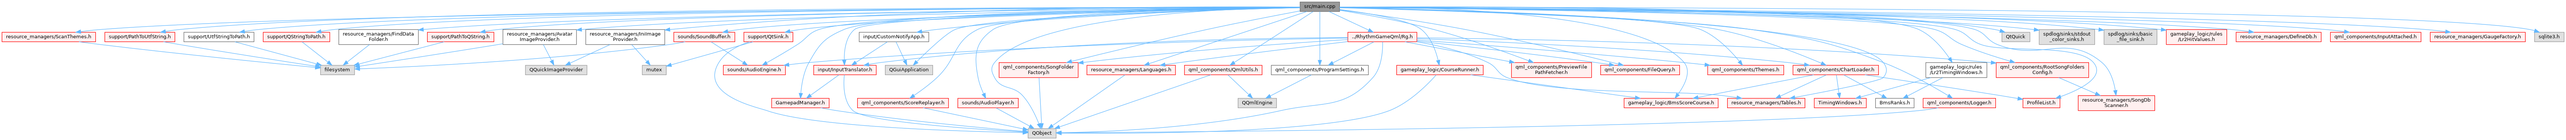
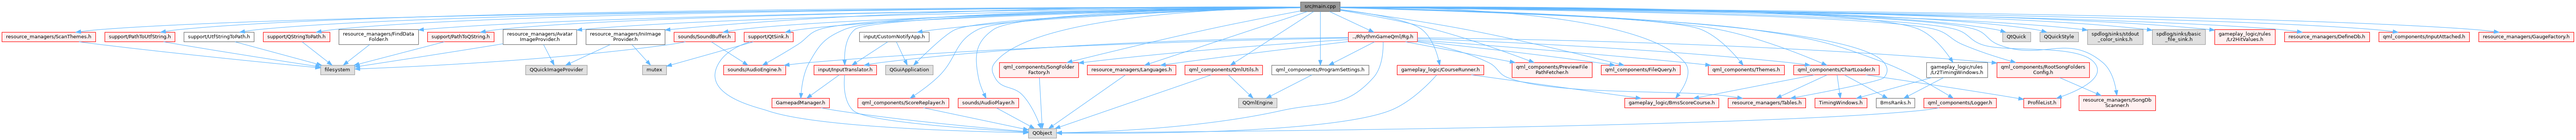
deploy: 96842105ca06dc9612243783aa36a79396fbe192

diff --git a/main_8cpp.html b/main_8cpp.html
@@ -86,6 +86,7 @@ $(function() {
 <code>#include &lt;QGuiApplication&gt;</code><br />
 <code>#include &lt;QObject&gt;</code><br />
 <code>#include &lt;QtQuick&gt;</code><br />
+<code>#include &lt;QQuickStyle&gt;</code><br />
 <code>#include &lt;spdlog/sinks/stdout_color_sinks.h&gt;</code><br />
 <code>#include &lt;spdlog/sinks/basic_file_sink.h&gt;</code><br />
 <code>#include &quot;<a class="el" href="Logger_8h_source.html">qml_components/Logger.h</a>&quot;</code><br />
@@ -120,7 +121,6 @@ $(function() {
 <code>#include &quot;<a class="el" href="QtSink_8h_source.html">support/QtSink.h</a>&quot;</code><br />
 <code>#include &quot;<a class="el" href="AvatarImageProvider_8h_source.html">resource_managers/AvatarImageProvider.h</a>&quot;</code><br />
 <code>#include &quot;<a class="el" href="QStringToPath_8h_source.html">support/QStringToPath.h</a>&quot;</code><br />
-<code>#include &lt;sqlite3.h&gt;</code><br />
 </div><div class="textblock"><div class="dynheader">
 Include dependency graph for main.cpp:</div>
 <div class="dyncontent">
@@ -149,18 +149,20 @@ Include dependency graph for main.cpp:</div>
 <area shape="poly" title=" " alt="" coords="3464,22,3278,28,3158,36,3031,49,2907,67,2797,93,2749,108,2708,126,2676,146,2652,168,2647,177,2645,186,2652,205,2667,223,2685,230,2706,237,2727,253,2753,291,2771,329,2766,331,2749,294,2723,257,2703,242,2683,235,2664,227,2648,208,2640,186,2642,176,2648,165,2672,142,2706,121,2747,103,2795,87,2906,62,3030,43,3157,31,3278,23,3464,17"/>
 <area shape="rect" title=" " alt="" coords="5334,86,5409,111"/>
 <area shape="poly" title=" " alt="" coords="3569,16,3902,16,4409,22,4678,29,4932,40,5151,55,5316,76,5330,79,5329,84,5315,81,5151,61,4932,46,4678,35,4409,28,3902,22,3569,22"/>
-<area shape="rect" title=" " alt="" coords="5433,79,5581,119"/>
-<area shape="poly" title=" " alt="" coords="3570,17,3915,21,4445,30,5000,48,5237,61,5420,76,5420,82,5237,66,5000,53,4445,35,3914,26,3570,22"/>
-<area shape="rect" title=" " alt="" coords="5606,79,5747,119"/>
-<area shape="poly" title=" " alt="" coords="3570,17,3943,19,4523,27,5132,45,5392,59,5592,76,5591,81,5391,64,5132,50,4522,33,3943,24,3570,22"/>
+<area shape="rect" title=" " alt="" coords="5433,86,5536,111"/>
+<area shape="poly" title=" " alt="" coords="3570,17,3920,17,4457,24,4743,31,5013,42,5246,57,5421,76,5439,80,5437,85,5420,81,5245,62,5013,47,4743,36,4457,29,3920,23,3570,22"/>
+<area shape="rect" title=" " alt="" coords="5560,79,5708,119"/>
+<area shape="poly" title=" " alt="" coords="3570,17,3935,20,4502,28,5097,46,5351,59,5546,76,5546,81,5350,65,5097,51,4502,34,3935,25,3569,22"/>
+<area shape="rect" title=" " alt="" coords="5733,79,5874,119"/>
+<area shape="poly" title=" " alt="" coords="3570,17,3963,18,4580,26,5229,44,5506,58,5719,76,5719,81,5506,63,5229,49,4580,31,3963,24,3570,22"/>
 <area shape="rect" href="Logger_8h.html" title=" " alt="" coords="5124,262,5317,287"/>
 <area shape="poly" title=" " alt="" coords="3570,18,4110,37,4431,54,4565,64,4666,76,4768,92,4846,107,4923,129,5019,164,5115,209,5192,252,5190,257,5113,214,5017,169,4921,135,4845,113,4767,97,4666,81,4565,70,4431,59,4110,42,3569,23"/>
-<area shape="rect" href="Lr2HitValues_8h.html" title=" " alt="" coords="5772,79,5933,119"/>
-<area shape="poly" title=" " alt="" coords="3570,17,3969,20,4597,28,5259,46,5541,59,5759,76,5758,81,5541,65,5259,51,4597,33,3969,25,3569,22"/>
+<area shape="rect" href="Lr2HitValues_8h.html" title=" " alt="" coords="5899,79,6060,119"/>
+<area shape="poly" title=" " alt="" coords="3569,17,3989,19,4654,27,5356,45,5655,58,5885,76,5885,81,5655,64,5356,50,4654,32,3989,24,3569,22"/>
 <area shape="rect" href="SongDbScanner_8h.html" title=" " alt="" coords="5537,255,5741,295"/>
 <area shape="poly" title=" " alt="" coords="3570,17,3927,19,4457,27,4727,34,4967,45,5154,58,5219,67,5263,76,5282,85,5294,96,5306,107,5323,116,5364,128,5401,132,5469,127,5501,126,5533,129,5567,141,5602,165,5617,181,5628,201,5639,240,5634,242,5623,203,5613,184,5599,169,5565,146,5532,134,5501,131,5469,133,5401,137,5363,133,5321,121,5303,111,5291,100,5279,90,5261,81,5218,72,5153,64,4967,50,4727,40,4457,32,3927,24,3570,22"/>
-<area shape="rect" href="DefineDb_8h.html" title=" " alt="" coords="5958,86,6185,111"/>
-<area shape="poly" title=" " alt="" coords="3570,17,4004,21,4693,32,5414,49,5718,62,5946,76,5992,81,5991,87,5946,81,5717,67,5414,55,4693,37,4004,27,3570,22"/>
+<area shape="rect" href="DefineDb_8h.html" title=" " alt="" coords="6085,86,6311,111"/>
+<area shape="poly" title=" " alt="" coords="3569,17,4023,21,4749,31,5511,49,5831,61,6073,76,6118,81,6118,87,6072,81,5831,66,5511,54,4749,36,4023,26,3569,22"/>
 <area shape="rect" href="GamepadManager_8h.html" title=" " alt="" coords="2056,262,2209,287"/>
 <area shape="poly" title=" " alt="" coords="3464,22,3195,25,2814,34,2455,52,2324,65,2279,73,2250,81,2217,97,2195,114,2177,137,2158,168,2142,209,2136,249,2131,248,2137,208,2153,166,2172,134,2191,110,2214,93,2248,76,2278,68,2324,60,2454,47,2814,29,3195,20,3464,17"/>
 <area shape="rect" href="InputTranslator_8h.html" title=" " alt="" coords="2168,174,2335,199"/>
@@ -175,8 +177,8 @@ Include dependency graph for main.cpp:</div>
 <area shape="poly" title=" " alt="" coords="3570,25,3686,45,3821,76,3958,118,4074,159,4072,164,3956,123,3820,81,3685,51,3569,30"/>
 <area shape="rect" href="FileQuery_8h.html" title=" " alt="" coords="4265,174,4475,199"/>
 <area shape="poly" title=" " alt="" coords="3570,24,3721,45,3905,76,4131,124,4313,168,4311,173,4130,130,3904,81,3720,50,3569,29"/>
-<area shape="rect" href="InputAttached_8h.html" title=" " alt="" coords="6209,86,6451,111"/>
-<area shape="poly" title=" " alt="" coords="3570,17,4043,21,4805,31,5606,49,5943,61,6197,76,6247,81,6246,87,6196,81,5943,66,5606,54,4805,36,4043,26,3570,22"/>
+<area shape="rect" href="InputAttached_8h.html" title=" " alt="" coords="6336,86,6577,111"/>
+<area shape="poly" title=" " alt="" coords="3570,17,4063,21,4861,30,5702,48,6057,61,6324,76,6374,81,6373,87,6323,81,6057,66,5702,53,4861,35,4063,26,3570,22"/>
 <area shape="rect" href="Rg_8h.html" title=" " alt="" coords="3591,86,3775,111"/>
 <area shape="poly" title=" " alt="" coords="3542,28,3648,78,3646,83,3540,33"/>
 <area shape="rect" href="Themes_8h.html" title=" " alt="" coords="4550,174,4753,199"/>
@@ -189,8 +191,8 @@ Include dependency graph for main.cpp:</div>
 <area shape="poly" title=" " alt="" coords="3464,23,3061,38,2780,55,2494,81,2457,86,2456,81,2494,76,2780,50,3061,33,3464,18"/>
 <area shape="rect" href="QmlUtils_8h.html" title=" " alt="" coords="3156,174,3363,199"/>
 <area shape="poly" title=" " alt="" coords="3500,33,3290,169,3287,164,3498,29"/>
-<area shape="rect" href="GaugeFactory_8h.html" title=" " alt="" coords="6475,86,6729,111"/>
-<area shape="poly" title=" " alt="" coords="3569,17,4084,20,4923,30,5809,48,6183,60,6464,76,6516,82,6516,87,6463,81,6182,66,5809,53,4923,35,4084,26,3569,22"/>
+<area shape="rect" href="GaugeFactory_8h.html" title=" " alt="" coords="6602,86,6855,111"/>
+<area shape="poly" title=" " alt="" coords="3570,17,4105,20,4981,29,5906,47,6297,60,6590,76,6643,82,6642,87,6590,81,6296,65,5906,52,4981,34,4105,25,3570,22"/>
 <area shape="rect" href="ScanThemes_8h.html" title=" " alt="" coords="5,86,255,111"/>
 <area shape="poly" title=" " alt="" coords="3464,22,2903,25,1975,33,993,51,579,64,268,81,216,87,215,82,267,76,579,59,993,46,1975,28,2903,19,3464,17"/>
 <area shape="rect" href="PathToUtfString_8h.html" title=" " alt="" coords="279,86,466,111"/>
@@ -211,8 +213,6 @@ Include dependency graph for main.cpp:</div>
 <area shape="poly" title=" " alt="" coords="3464,23,2561,39,1986,56,1740,68,1550,81,1550,76,1740,63,1986,51,2561,33,3464,17"/>
 <area shape="rect" href="QStringToPath_8h.html" title=" " alt="" coords="701,86,879,111"/>
 <area shape="poly" title=" " alt="" coords="3464,22,2998,24,2252,31,1468,49,1138,63,890,81,856,86,855,81,890,76,1138,58,1468,44,2252,26,2998,18,3464,17"/>
-<area shape="rect" title=" " alt="" coords="6753,86,6832,111"/>
-<area shape="poly" title=" " alt="" coords="3570,17,4186,17,5181,24,5699,31,6164,42,6528,56,6656,66,6741,76,6754,79,6753,84,6740,81,6656,71,6527,62,6164,47,5699,36,5181,29,4186,23,3570,22"/>
 <area shape="rect" title=" " alt="" coords="854,174,945,199"/>
 <area shape="poly" title=" " alt="" coords="986,121,927,167,924,163,983,117"/>
 <area shape="rect" title=" " alt="" coords="1400,174,1564,199"/>
